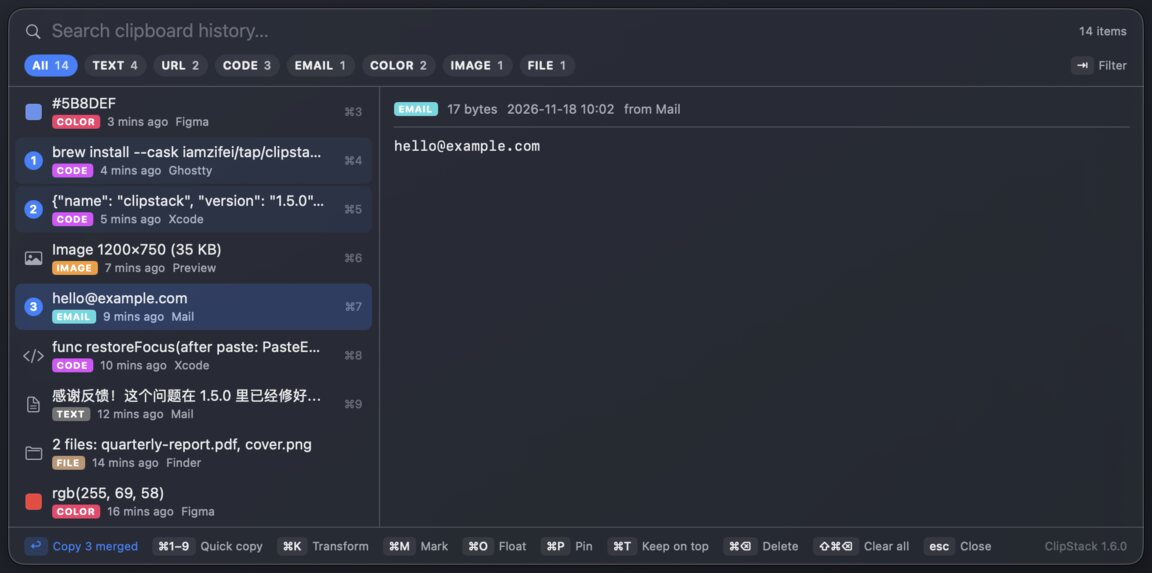
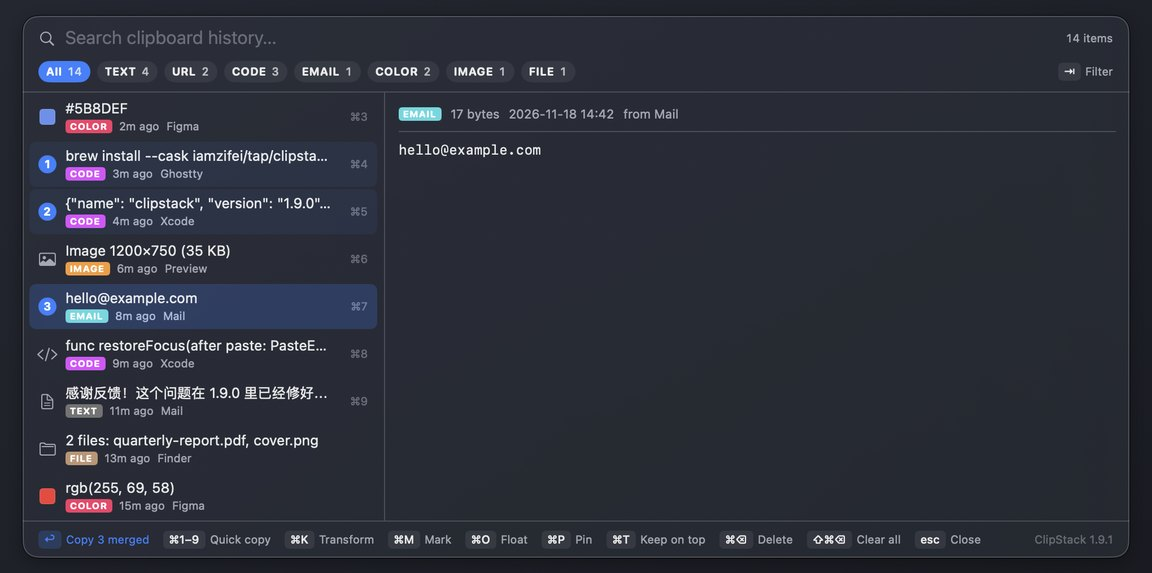
Release 1.9.1: welcome-guide screenshots re-shot on 1.9
English, Simplified and Traditional Chinese guide images retaken with the
current build and demo history; they previously showed 1.6.0.

diff --git a/CHANGELOG.md b/CHANGELOG.md
@@ -2,6 +2,11 @@
 
 本文件记录每个版本的用户可见改动。版本号遵循 `主.次.补丁`：新功能进次版本号，修复进补丁号。
 
+## 1.9.1 — 2026-11-18
+
+### 改进
+- **新手指导截图更新**：英文、简体中文、繁體中文三套引导截图按 1.9 重拍，界面里的版本号和演示内容都是最新的（之前显示的是 1.6.0）。
+
 ## 1.9.0 — 2026-11-18
 
 ### 改动
